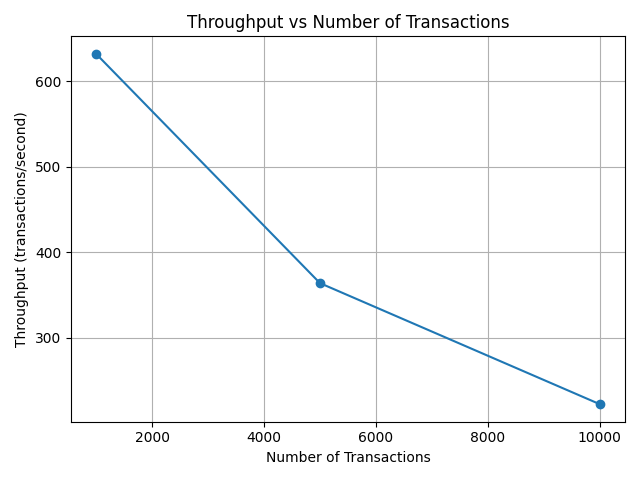
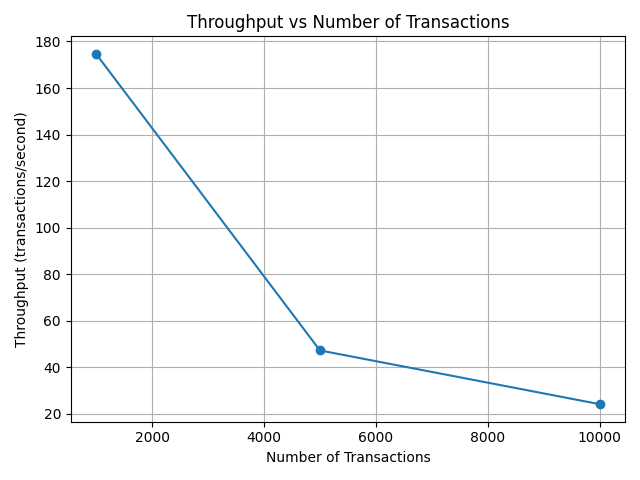
Finalize benchmark results and plots

diff --git a/benchmarks/run_benchmarks.py b/benchmarks/run_benchmarks.py
@@ -13,11 +13,14 @@ def run_test(number_of_transactions):
     validator = MVCCValidator()
     other_transactions = []
     validation_latencies = []
+    trace_logs = []
 
 
     for i in range(number_of_transactions):
         transaction = Transaction(i)
         transaction.write(f"key_{i}")
+        
+        timestamp = time.time()
 
         start_validation_time = time.perf_counter()
         is_valid = validator.validate(transaction, other_transactions)
@@ -30,7 +33,33 @@ def run_test(number_of_transactions):
         else:
             transaction.abort() 
         other_transactions.append(transaction)
-   
+
+        trace_logs.append({
+            "transaction_id": i,
+            "timestamp": timestamp,
+            "validation_latency": validation_latency,
+            "status": transaction.status
+        })
+
+        trace_file = "logs/execution_trace.csv"
+        os.makedirs("logs", exist_ok=True)
+
+        with open(trace_file, mode="a", newline="") as file:
+            writer = csv.DictWriter(
+                file,
+                fieldnames=[
+                    "transaction_id",
+                    "timestamp",
+                    "validation_latency",
+                    "status"
+                ]
+            )
+
+            if file.tell() == 0:
+                writer.writeheader()
+            
+            writer.writerows(trace_logs)
+
 
     elapsed_time = time.perf_counter() - start_time
 
